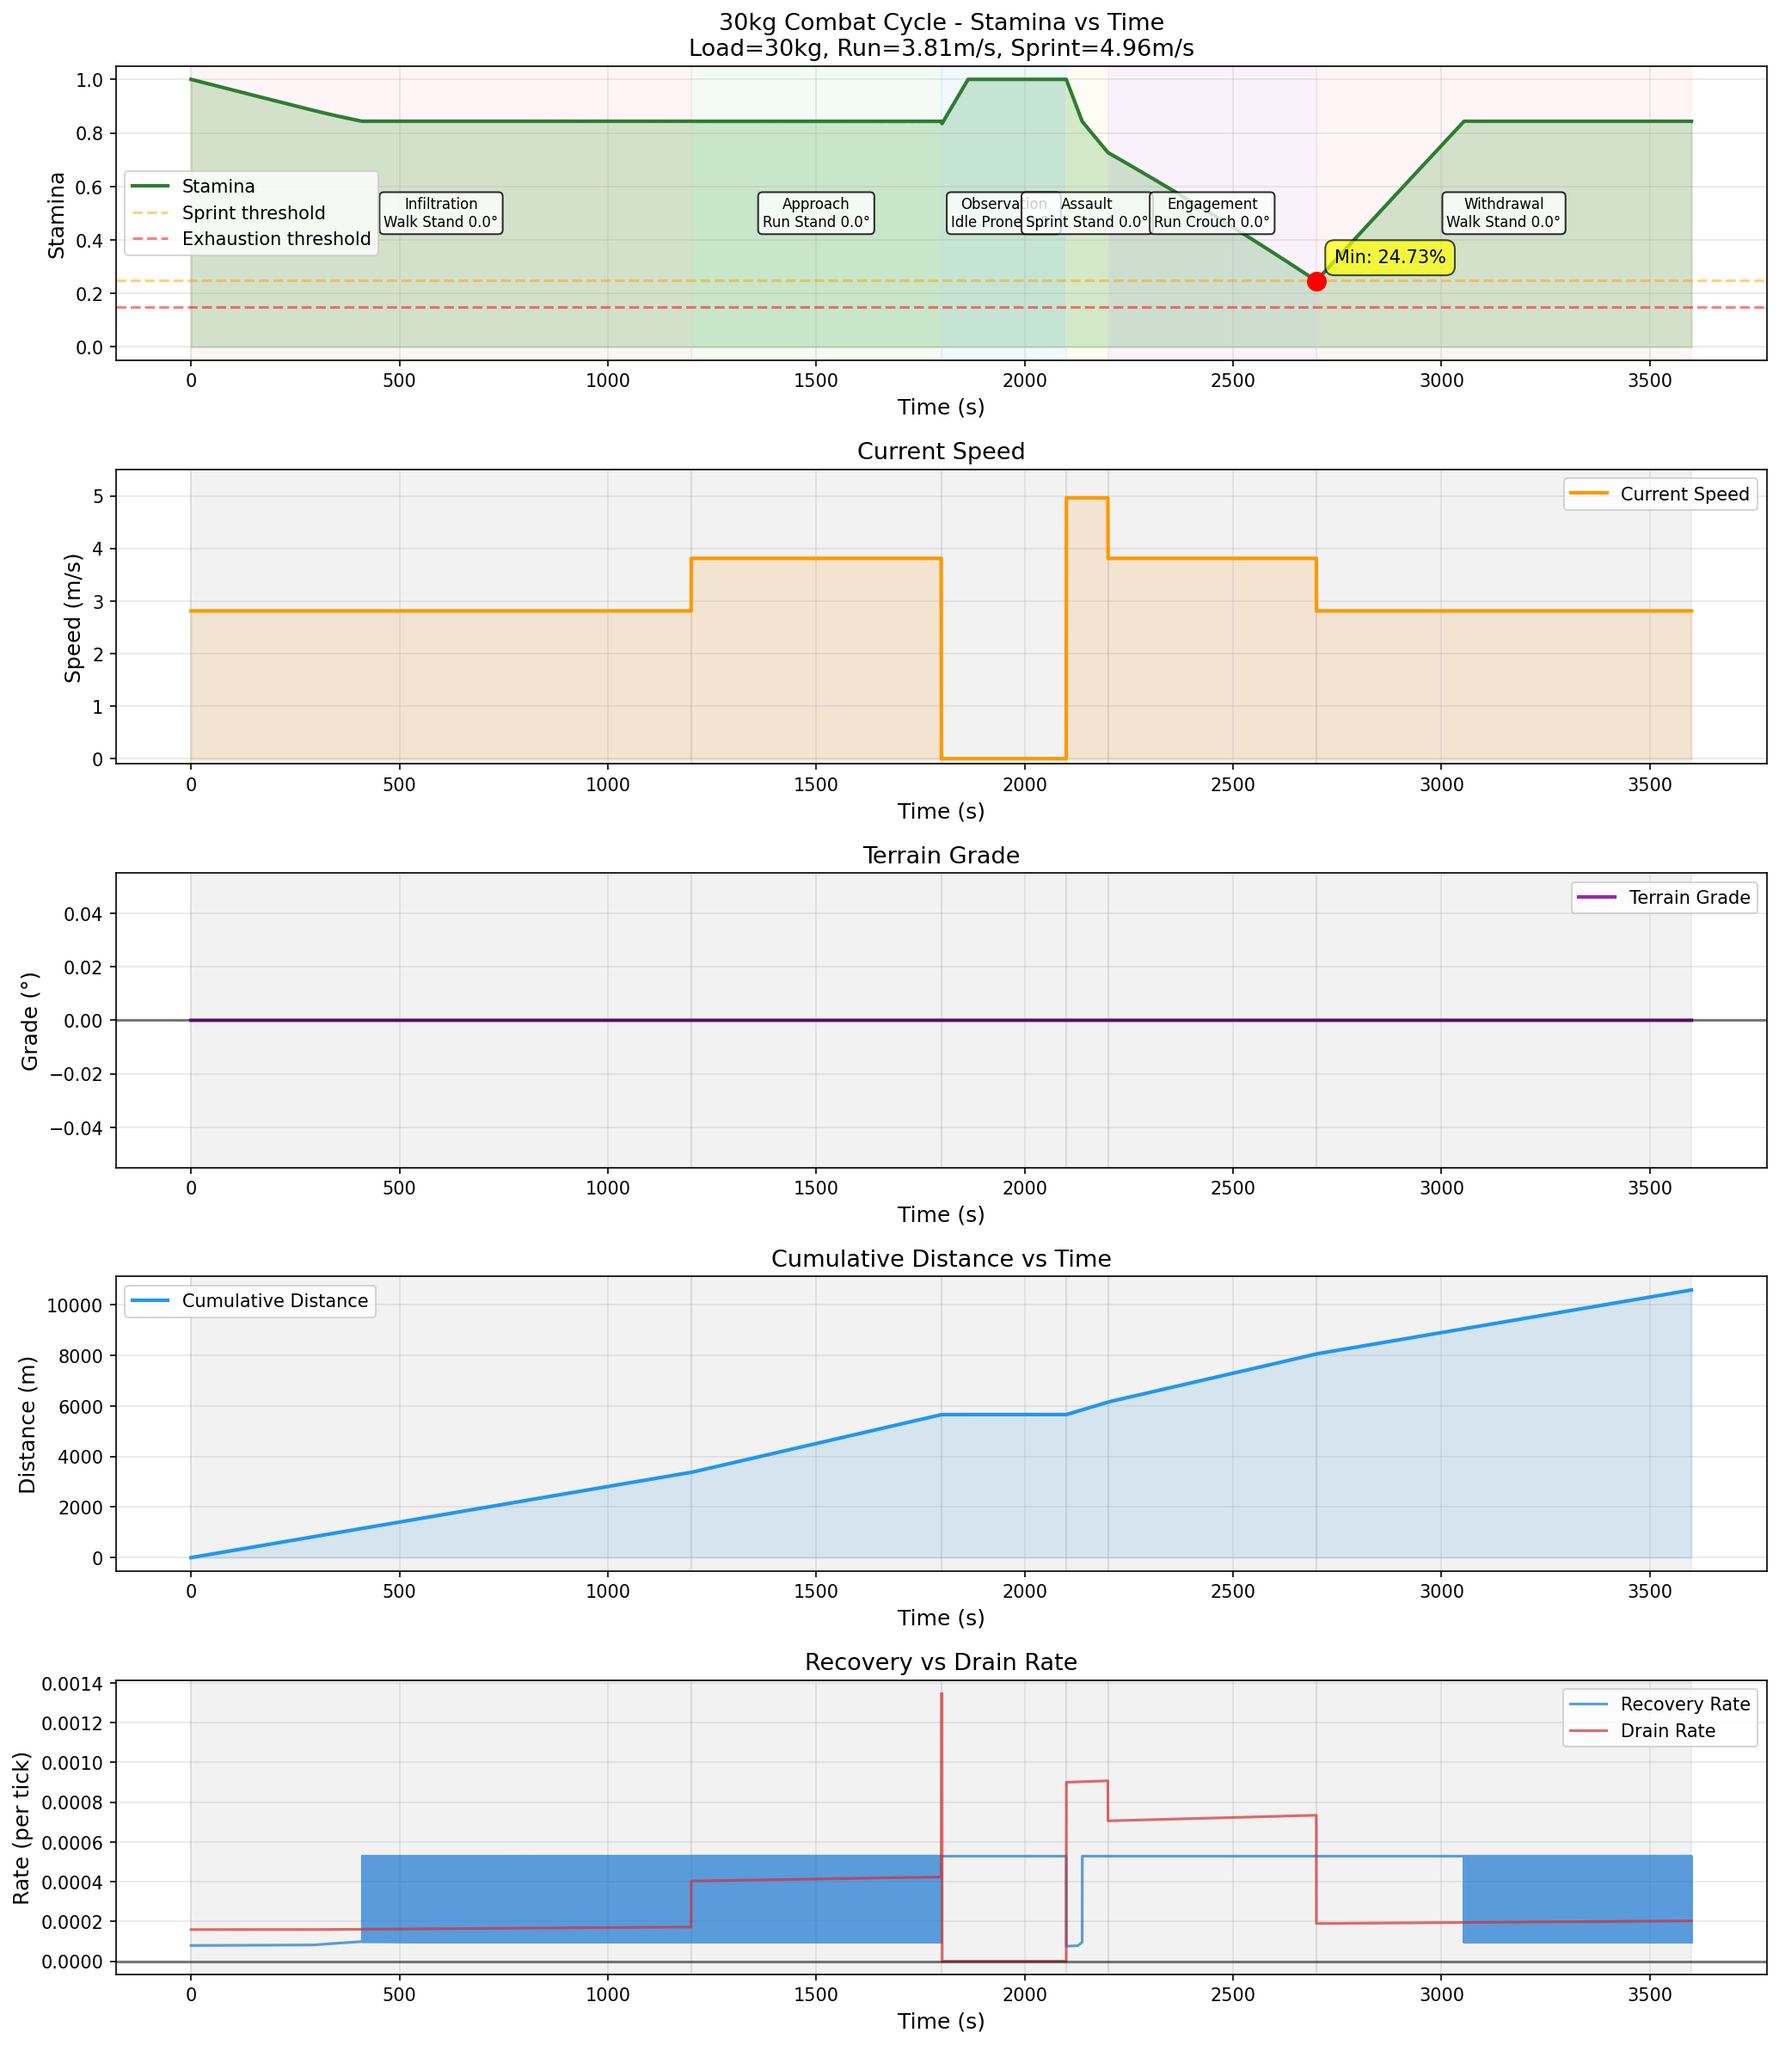
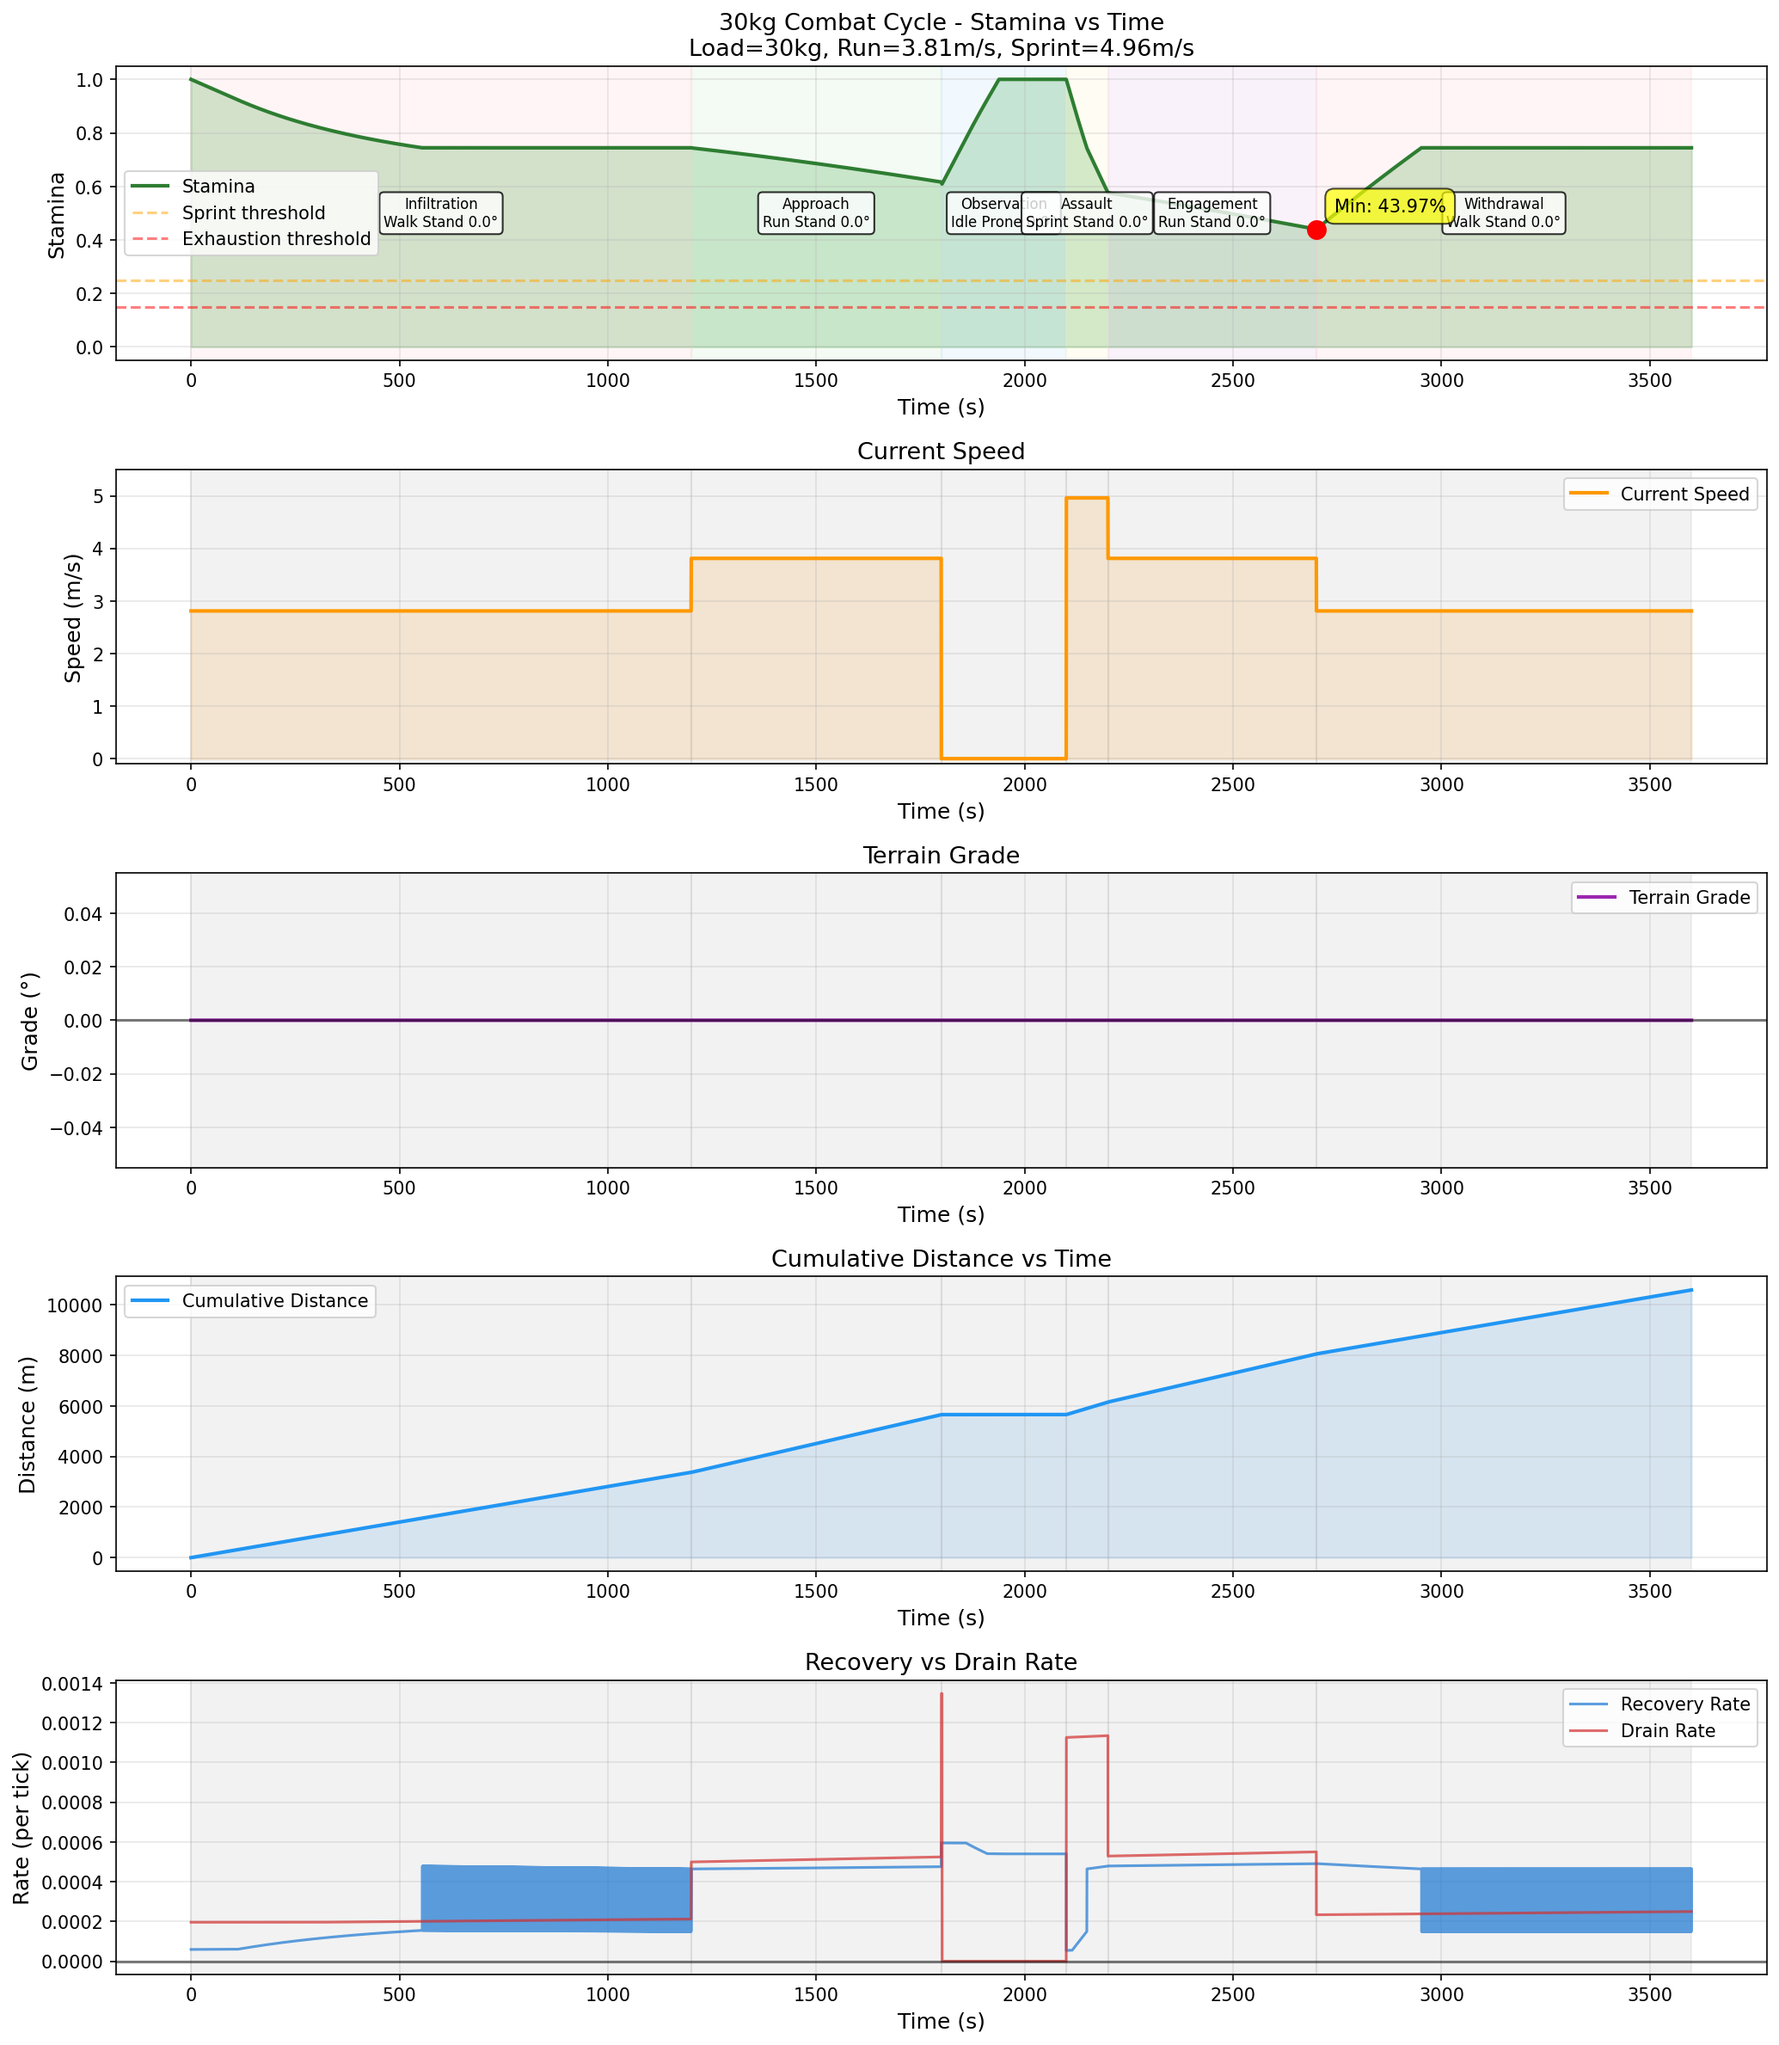
fix(rss): 调整恢复参数约束并更新优化结果

diff --git a/tools/rss_super_pipeline.py b/tools/rss_super_pipeline.py
@@ -703,19 +703,20 @@ class RSSSuperPipeline:
         )
         
         # 恢复系统相关
-        # 调整：适当收紧上界，避免移动中"回血"过强导致 Run/Sprint 净消耗过低。
-        # 允许范围覆盖默认0.00035以上，否则默认值永远不可达
-        # 游骑兵版：提高下界至 1.5e-4，保证搜索空间内的参数具备足够的静态恢复能力
+        # 调整：收紧上界，避免移动中"回血"过强导致 Run/Sprint 净消耗过低。
+        # 当前问题：0.000268 * 1.4(standing) ≈ 0.000375/0.2s，600秒Run恢复1.1+，导致Run无净消耗
+        # 新范围：0.5e-4 ~ 3e-4，确保恢复速度不会过度抵消运动消耗
         base_recovery_rate = trial.suggest_float(
-            'base_recovery_rate', 1.5e-4, 8e-4, log=True  # 游骑兵底线：静止恢复不低于此水平
+            'base_recovery_rate', 5e-5, 3e-4, log=True  # 收紧范围，避免Run阶段无净消耗
         )
         # 约束：prone恢复应该快于standing恢复，所以prone应该有更高的下界
         prone_recovery_multiplier = trial.suggest_float(
             'prone_recovery_multiplier', 1.5, 3.5  # 更宽松，下界1.5覆盖代码默认1.8
         )
-        # 游骑兵版：上界扩展至 2.5，允许优化器发现「边行军边恢复」的参数组合
+        # 调整：收紧上界，避免站立恢复过快导致Run阶段无净消耗
+        # 当前问题：1.408 * 0.000268 ≈ 0.00038/0.2s，恢复过快
         standing_recovery_multiplier = trial.suggest_float(
-            'standing_recovery_multiplier', 1.3, 2.5  # 游骑兵：行军中快速呼吸调整恢复能力强
+            'standing_recovery_multiplier', 1.0, 1.8  # 收紧范围，确保Run有净消耗
         )
         # 30kg Walk 需净恢复：penalty 过大会扼杀恢复。1e-3 时 penalty≈0.0016>>base_recovery
         load_recovery_penalty_coeff = trial.suggest_float(
@@ -1656,6 +1657,24 @@ class RSSSuperPipeline:
         t1_twin = RSSDigitalTwin(twin.constants)
         t1_twin.reset()
         t1_weight = 90.0 + 30.0
+        # ======== 合理性约束：30kg Run 60秒必须有净消耗 ========
+        # 避免"恢复速度过快导致Run无消耗"的异常参数组合
+        run_test_twin = RSSDigitalTwin(twin.constants)
+        run_test_twin.reset()
+        run_test_weight = 90.0 + 30.0
+        run_test_speed = get_speed(30.0, "run")
+        run_test_t = 0.0
+        while run_test_t < 60.0:
+            run_test_twin.step(run_test_speed, run_test_weight, 0.0, 1.0, Stance.STAND,
+                               MovementType.RUN, run_test_t + 0.2, enable_randomness=False)
+            run_test_t += 0.2
+        run_60s_remaining = run_test_twin.stamina
+        # 60秒Run应该有显著消耗（至少消耗10%体力）
+        if run_60s_remaining > 0.90:
+            raise optuna.exceptions.TrialPruned(
+                f"30kg Run 60秒剩余体力 {run_60s_remaining:.2%} > 90%，不合理（恢复速度过快）"
+            )
+
         t1_speed = get_speed(30.0, "run")
         t1_t = 0.0
         while t1_t < 300.0:

diff --git a/tools/plot_combat_cycle_30kg_en.py b/tools/plot_combat_cycle_30kg_en.py
@@ -175,7 +175,7 @@ def create_tactical_cycle(load_kg, flat_run_speed, flat_walk_speed, sprint_speed
         (600.0, flat_run_speed, MovementType.RUN, Stance.STAND, "Approach", 0.0),  # 1200-1800s, flat
         (300.0, 0.0, MovementType.IDLE, Stance.PRONE, "Observation", 0.0),  # 1800-2100s, flat
         (100.0, sprint_speed, MovementType.SPRINT, Stance.STAND, "Assault", 0.0),  # 2100-2200s, flat
-        (500.0, flat_run_speed, MovementType.RUN, Stance.CROUCH, "Engagement", 0.0),  # 2200-2700s, flat
+        (500.0, flat_run_speed, MovementType.RUN, Stance.STAND, "Engagement", 0.0),  # 2200-2700s, flat
         (900.0, flat_walk_speed, MovementType.WALK, Stance.STAND, "Withdrawal", 0.0),  # 2700-3600s, flat
     ]
 
